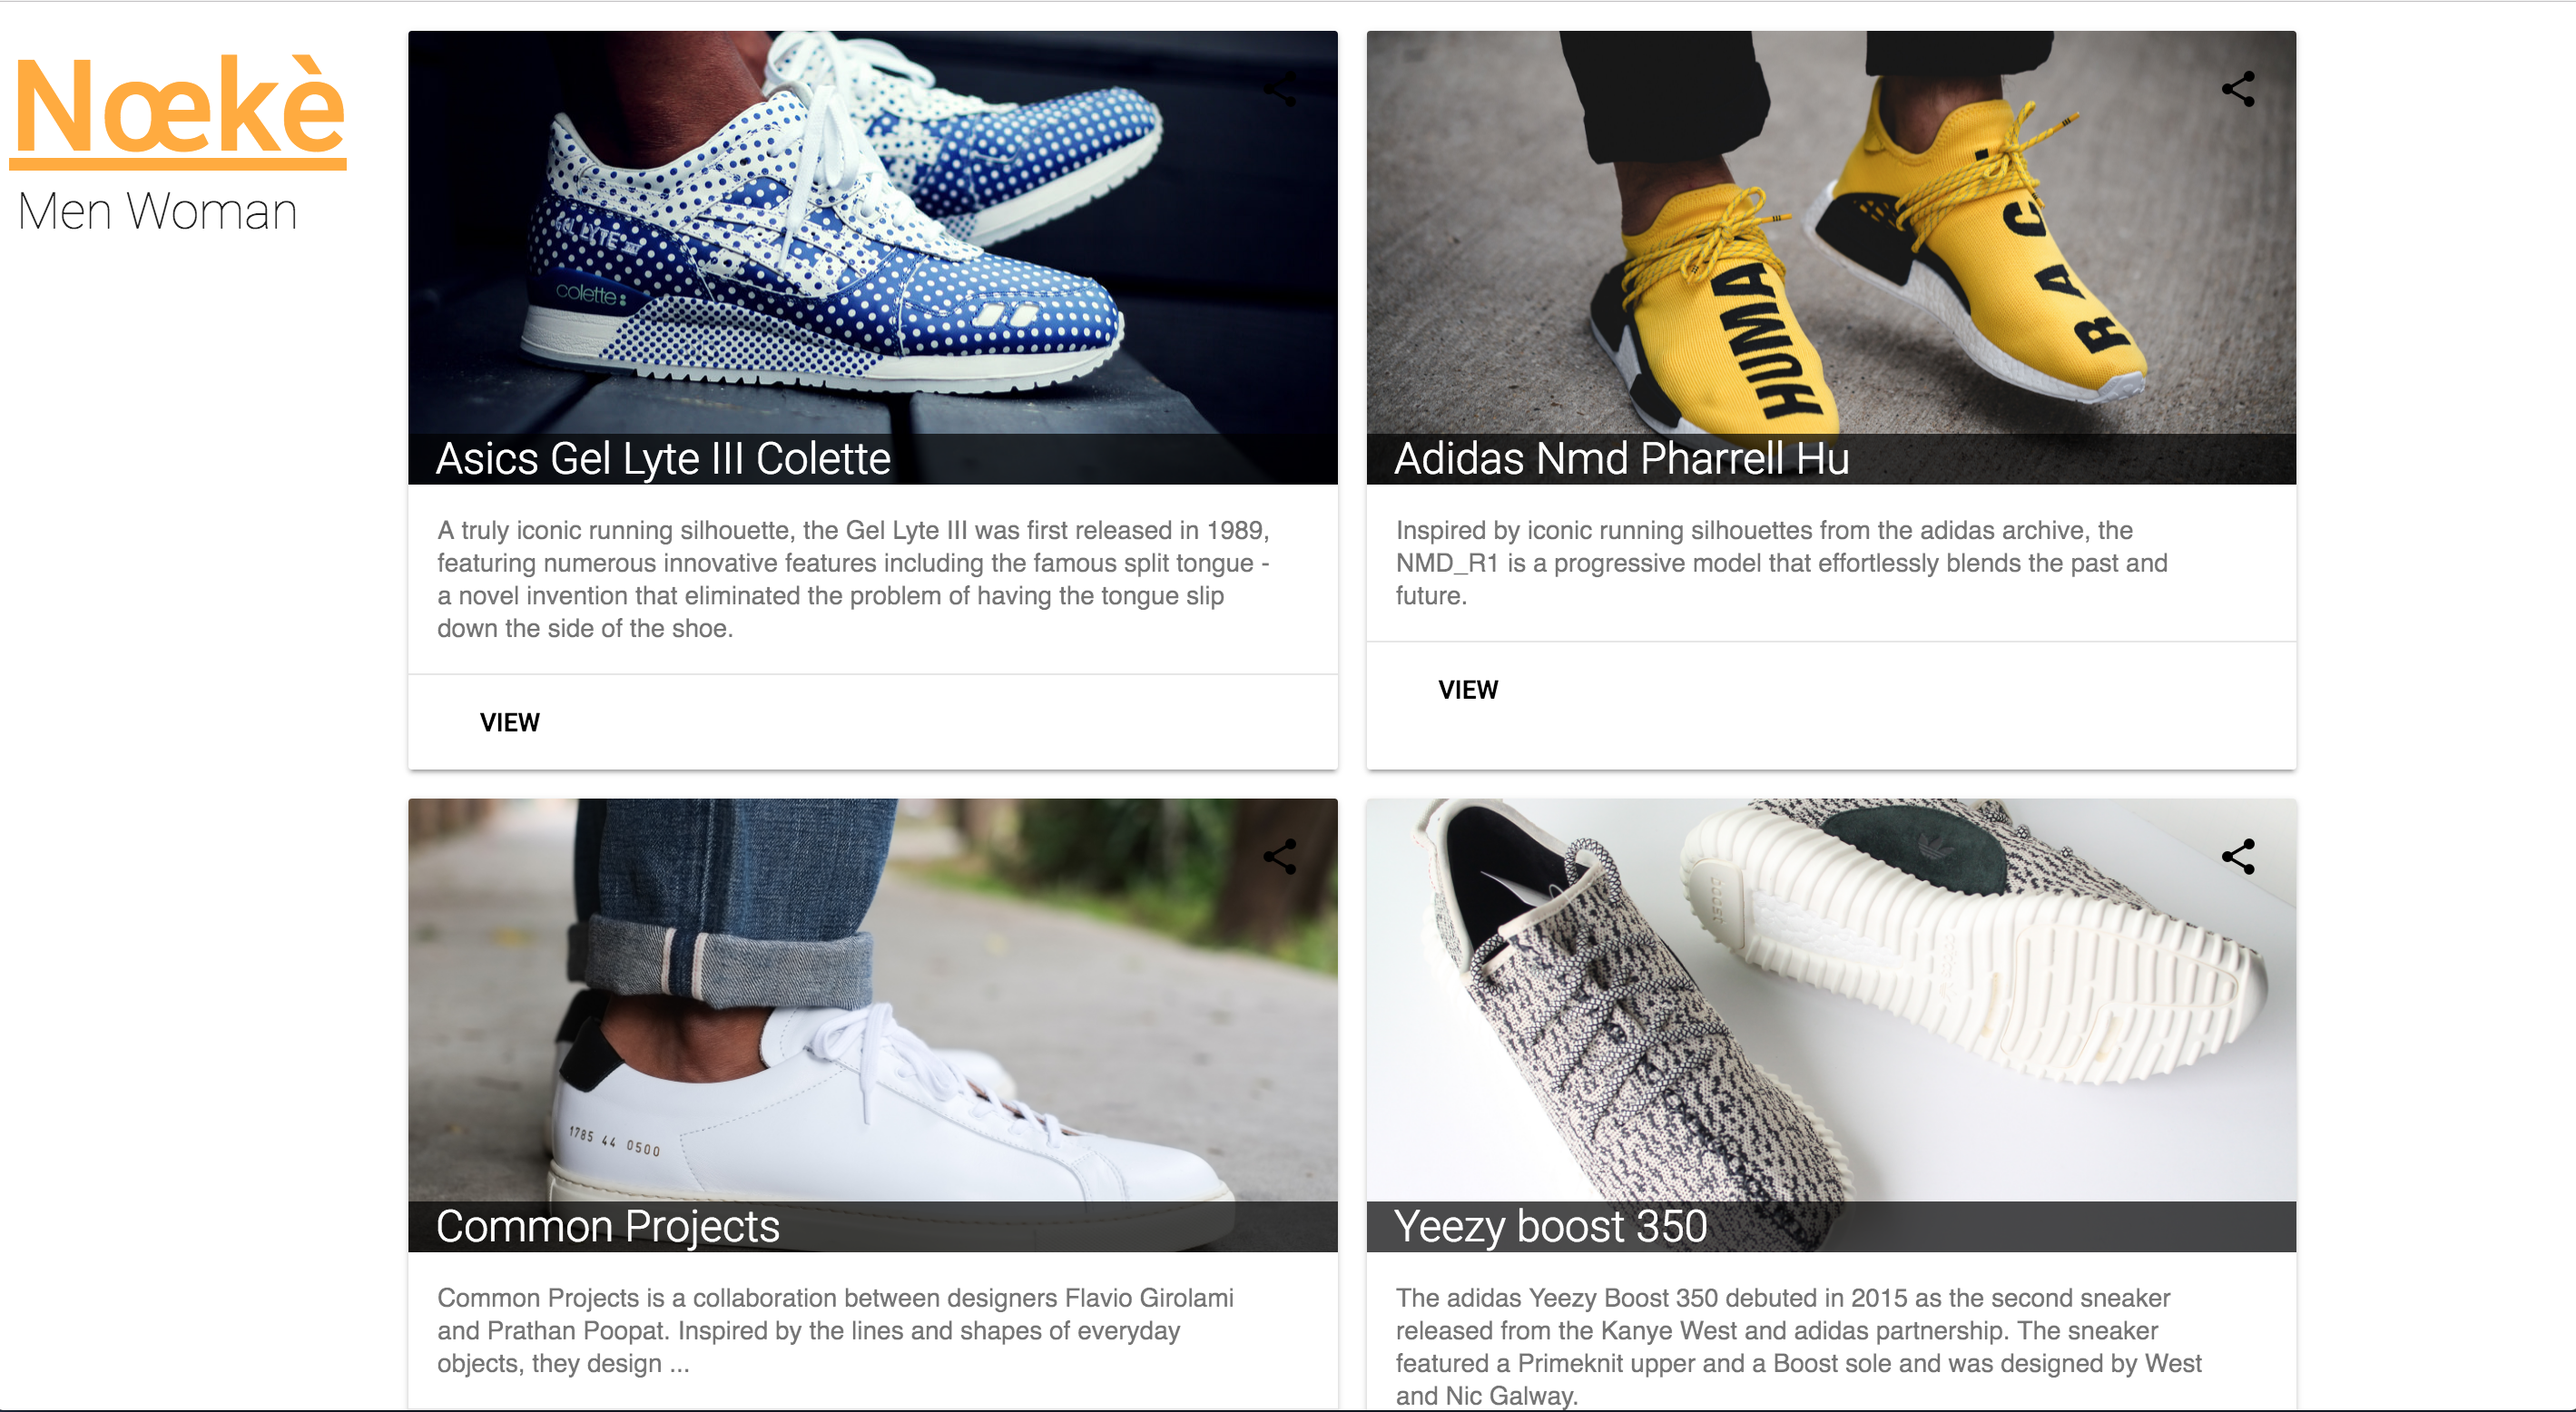
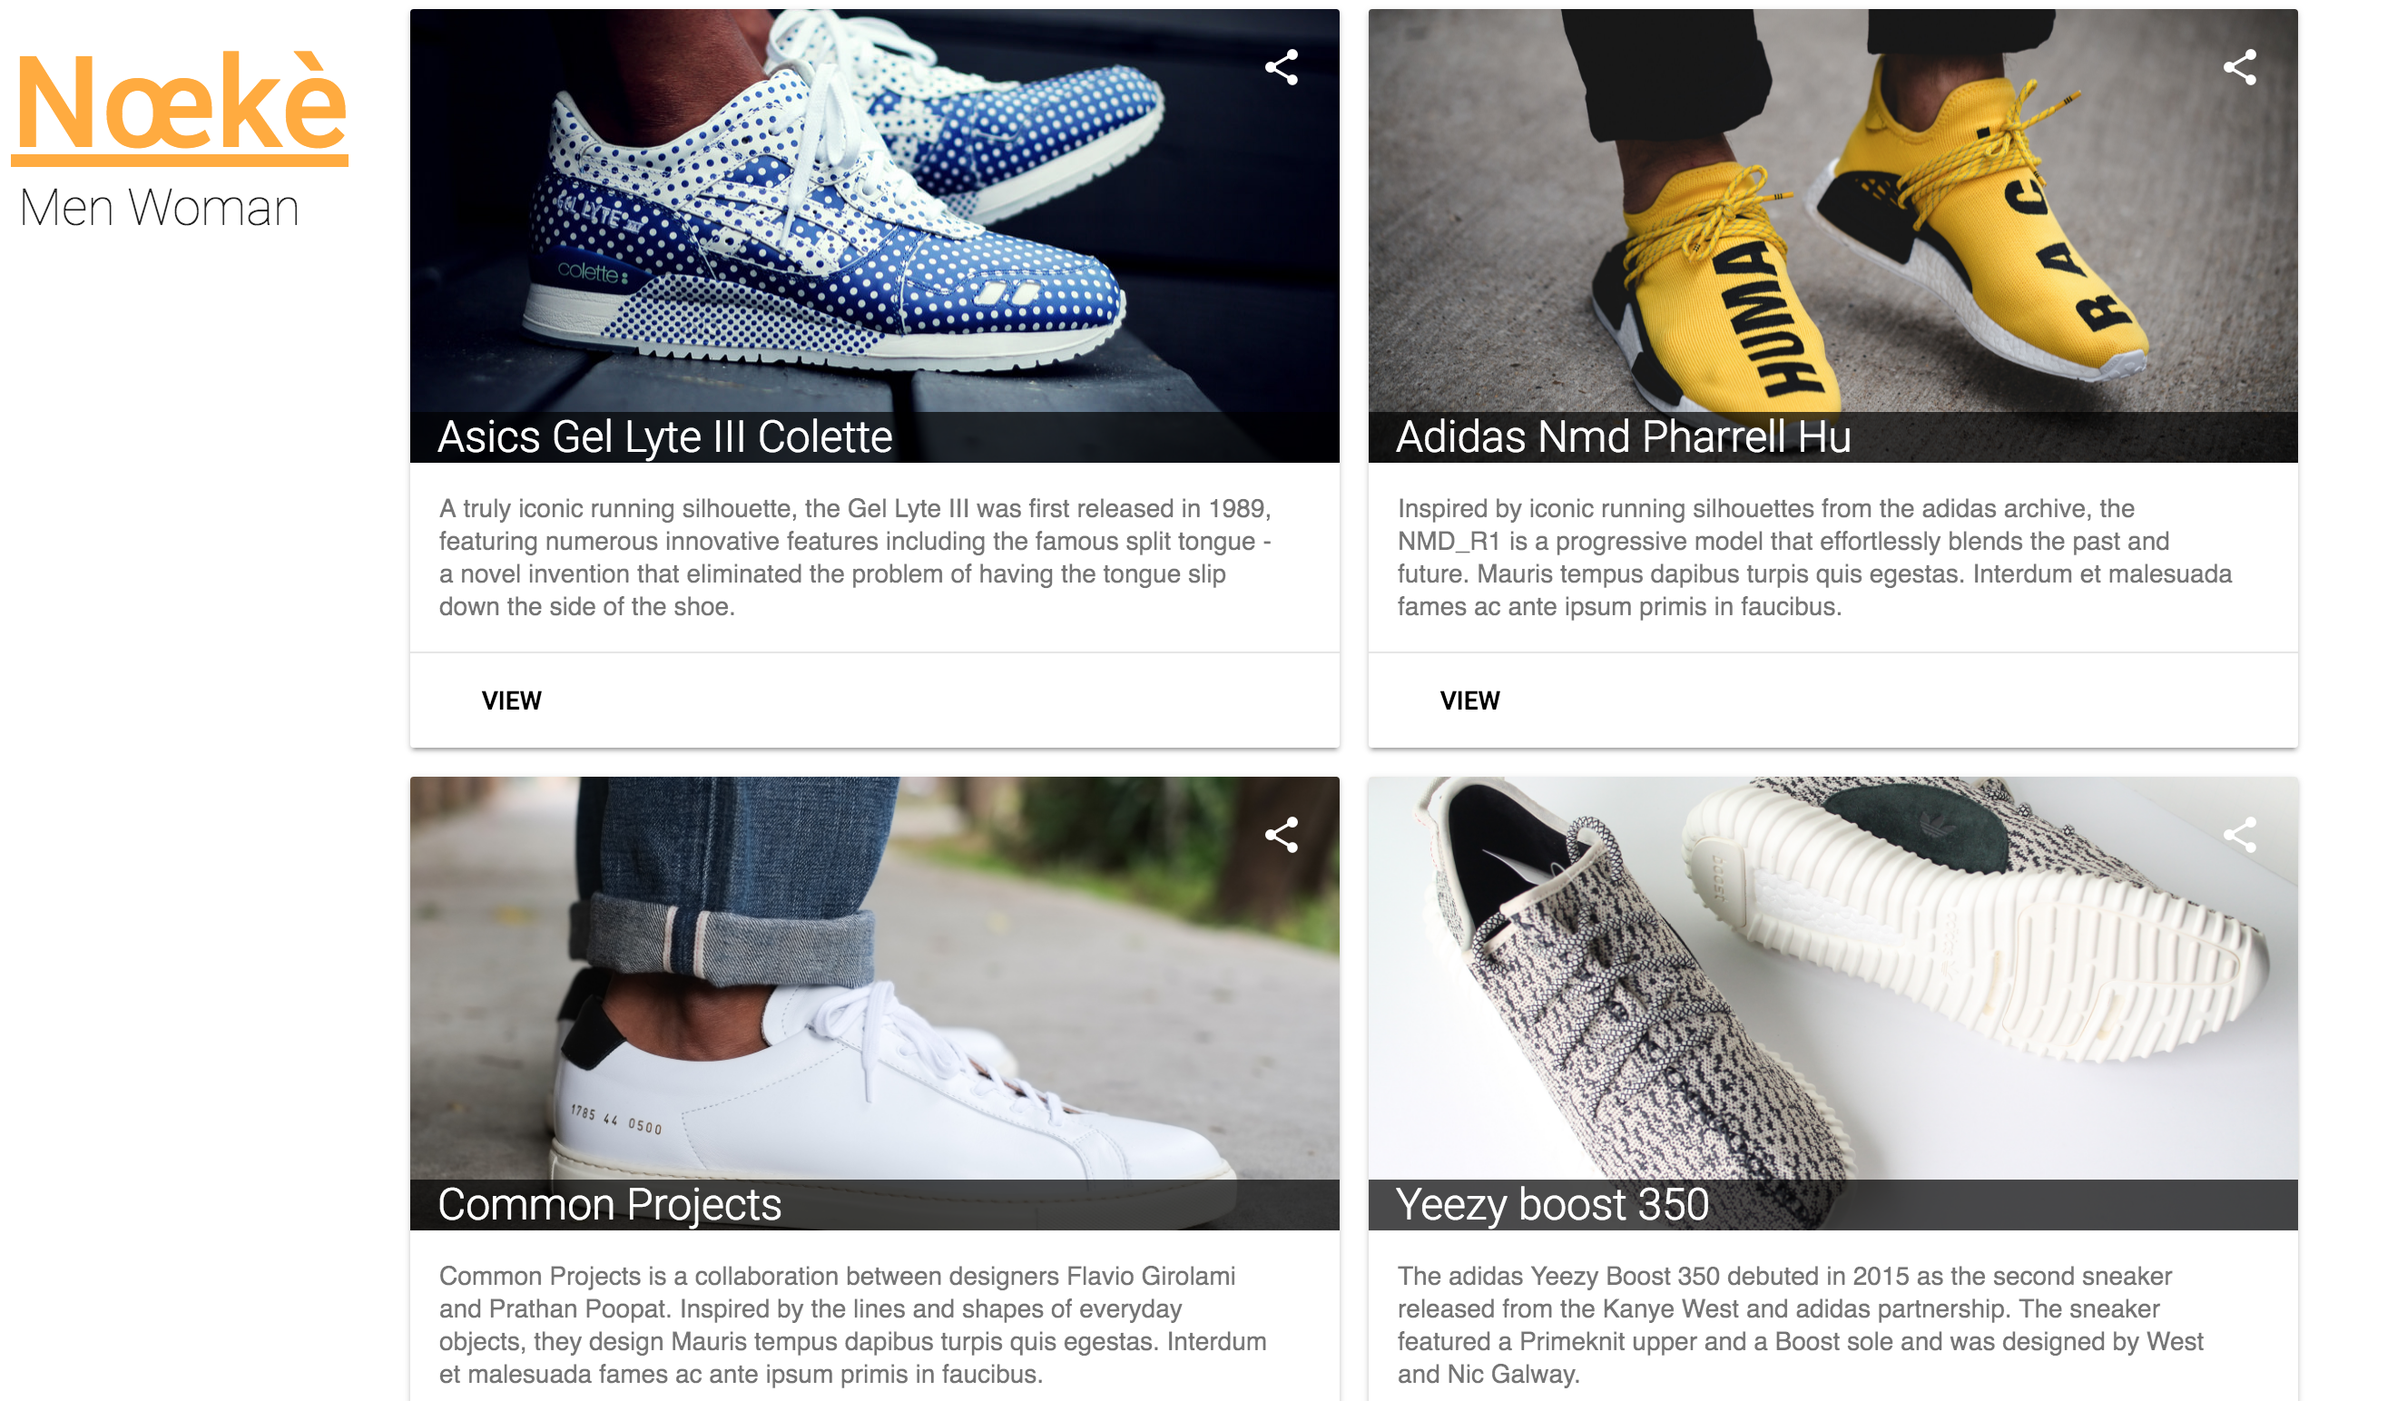
upload diff screenshot and change data

diff --git a/public/scripts/noke.jsx b/public/scripts/noke.jsx
@@ -16,10 +16,10 @@ var NokeBox = React.createClass({
                         "description": "A truly iconic running silhouette, the Gel Lyte III was first released in 1989, featuring numerous innovative features including the famous split tongue - a novel invention that eliminated the problem of having the tongue slip down the side of the shoe."}, 
                       {"title": "Adidas Nmd Pharrell Hu",
                         "img_url": "https://www.eukicks.com/wp-content/uploads/2016/07/adidas_Pharrell_Williams_HU_NMD_yellow-yellow-white_1013868-8-1.jpg",
-                        "description": "Inspired by iconic running silhouettes from the adidas archive, the NMD_R1 is a progressive model that effortlessly blends the past and future."},
+                        "description": "Inspired by iconic running silhouettes from the adidas archive, the NMD_R1 is a progressive model that effortlessly blends the past and future. Mauris tempus dapibus turpis quis egestas. Interdum et malesuada fames ac ante ipsum primis in faucibus. "},
                       {"title": "Common Projects",
                         "img_url": "https://s-media-cache-ak0.pinimg.com/originals/10/c1/74/10c174a206bd722f633886583d49da54.jpg",
-                        "description": "Common Projects is a collaboration between designers Flavio Girolami and Prathan Poopat. Inspired by the lines and shapes of everyday objects, they design ... "},
+                        "description": "Common Projects is a collaboration between designers Flavio Girolami and Prathan Poopat. Inspired by the lines and shapes of everyday objects, they design Mauris tempus dapibus turpis quis egestas. Interdum et malesuada fames ac ante ipsum primis in faucibus."},
                       {"title": "Yeezy boost 350",
                         "img_url": "http://www.authentkicks.com/wp-content/uploads/2015/06/IMG_7123.jpg",
                         "description": "The adidas Yeezy Boost 350 debuted in 2015 as the second sneaker released from the Kanye West and adidas partnership. The sneaker featured a Primeknit upper and a Boost sole and was designed by West and Nic Galway."},

diff --git a/public/css/noke.css b/public/css/noke.css
@@ -38,6 +38,10 @@
     padding-left: 15px;
 }
 
+.material-icons {
+    color: white;
+}
+
 h2 {
     width: 100%;
     background-color: rgba(0,0,0,.7);
